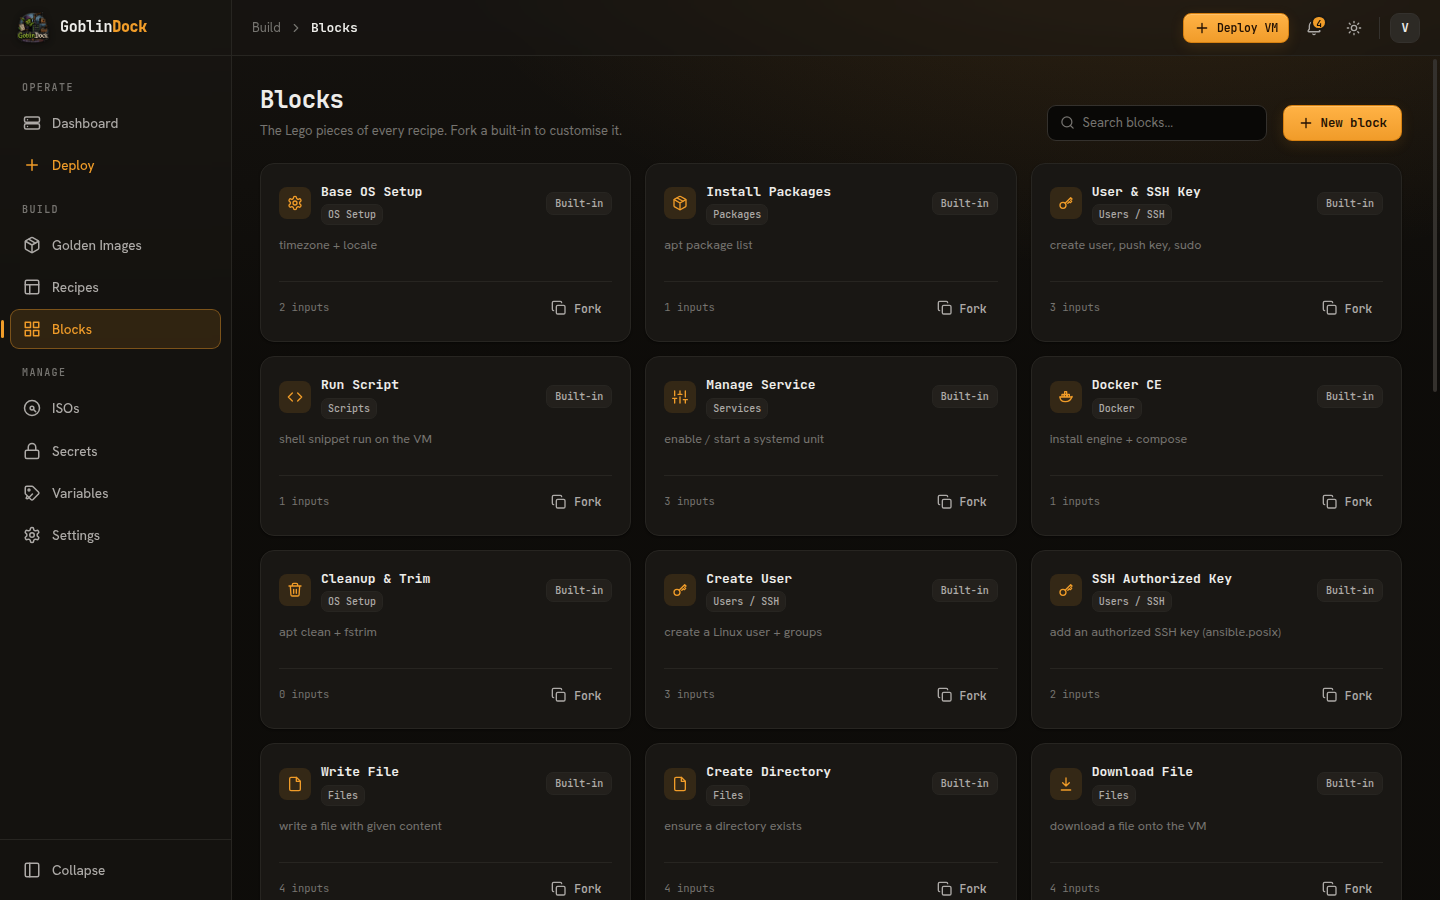
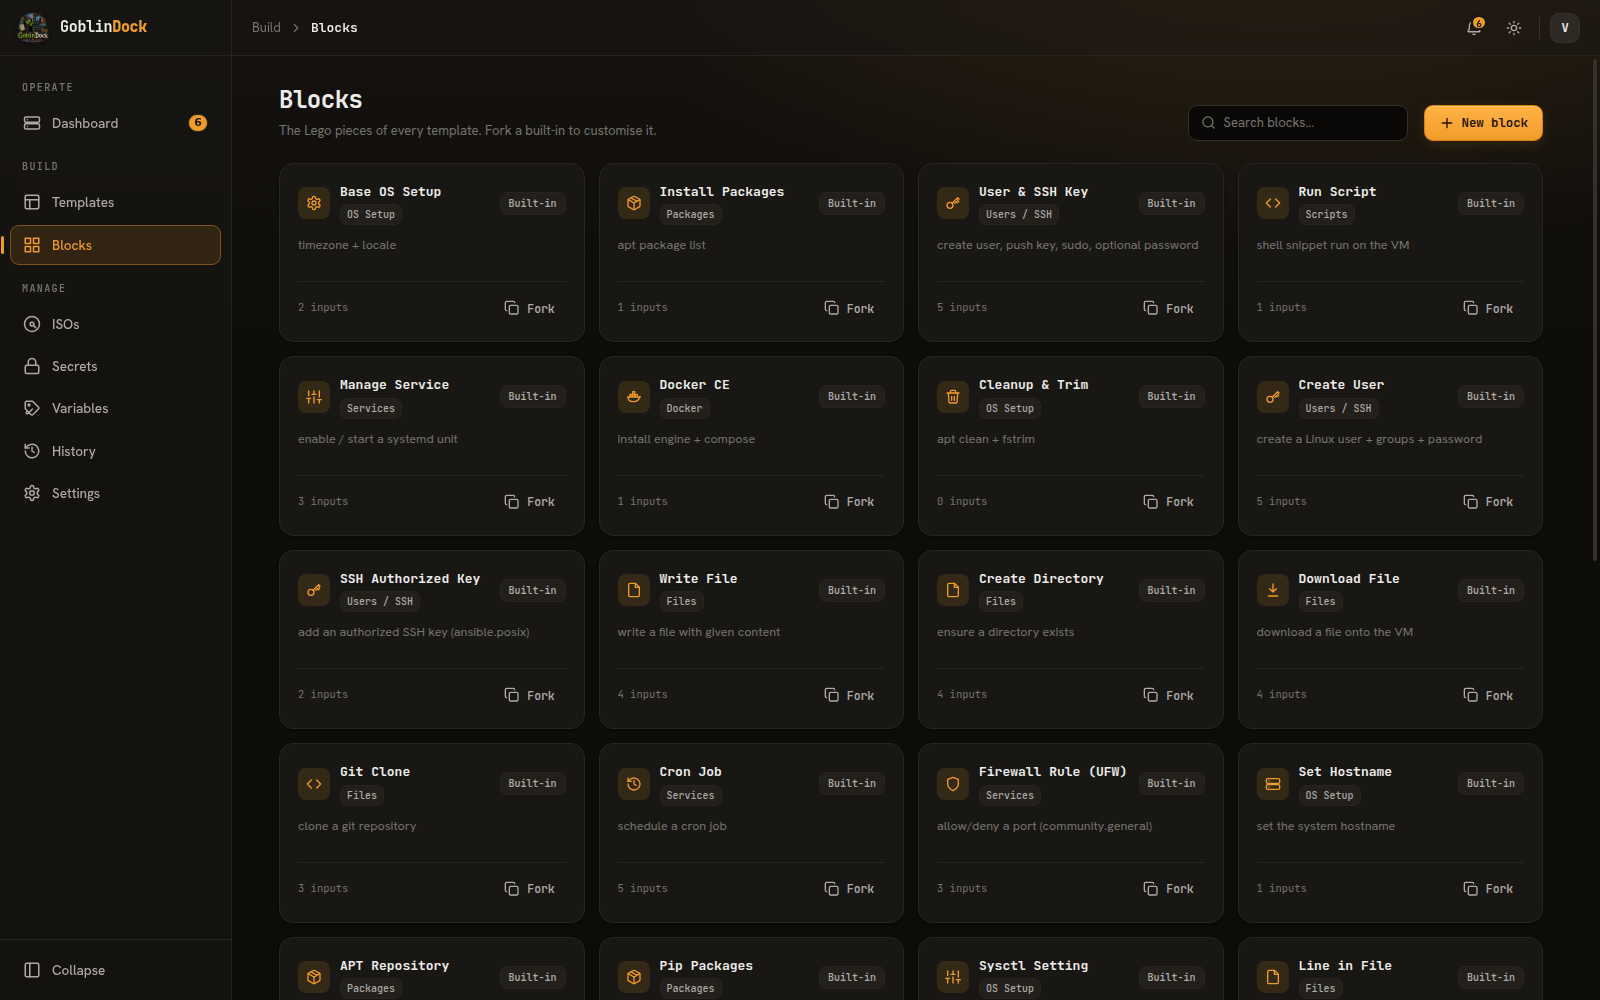
README: refresh screenshots from a live session and place them through the doc
All six shots retaken against a real deployment run: dashboard cards with
CPU/RAM sparklines, the block builder with the inspector open, the block
library, the deploy modal, a deploy job streaming live, and the VM detail
page with a snapshot. Image tags in the quick start now reference 2.1.x.

diff --git a/README.md b/README.md
@@ -25,7 +25,7 @@ all from a single container backed by one SQLite file.
 
 </div>
 
-![The block builder — compose a template from typed blocks](docs/screenshots/builder.png)
+![The dashboard — live VM cards with CPU/RAM sparklines, one VM stopped, all auto-refreshing](docs/screenshots/dashboard.png)
 
 ---
 
@@ -54,7 +54,7 @@ GoblinDock turns *"spin up a fully-configured VM"* into a few clear buttons:
 - **👥 Multi-user** — first-run admin setup, Admin / User roles, per-user VM isolation,
   per-target resource limits, and an audit log.
 
-![Block library — built-in + custom blocks, each tagged cloud-init or ansible](docs/screenshots/blocks.png)
+![The VM detail page — live metrics, guest-agent info, snapshots, and the deployment log](docs/screenshots/vm-detail.png)
 
 ---
 
@@ -81,7 +81,7 @@ open http://localhost:8080
 
 > The image is published at **`ghcr.io/vladoportos/goblindock`** — multi-arch
 > (amd64 · arm64). Tags: `latest` (newest release), `main` (rolling, from the default
-> branch), and semver (`2.0.0`, `2.0`). The compose files pull `:latest` by default.
+> branch), and semver (`2.1.2`, `2.1`). The compose files pull `:latest` by default.
 
 The first load shows **"Create the first admin account"**. With the dev override the
 Proxmox connection is auto-seeded from `PROXMOX_*` (`GOBLINDOCK_SEED_PROXMOX=true`); in
@@ -103,12 +103,21 @@ throttle see the real client address.
 
 The flow: **add a base image (or use the seeded ones) → build a template (blocks + location + size) → deploy.**
 
+![The deploy modal — pick a template, name the VM, answer its asked inputs, see live node capacity](docs/screenshots/deploy.png)
+
 ---
 
 ## How the customization actually runs
 
 This is the part people are curious about. When you stack several blocks, GoblinDock
 **doesn't run them one-by-one as separate executions** — it *compiles* them.
+
+![The block builder — palette, canvas with phase-tagged blocks, and the typed-input inspector](docs/screenshots/builder.png)
+
+There are 29 built-in blocks (plus your own forks and custom ones), each tagged with the
+phase it runs in:
+
+![Block library — built-in + custom blocks, each tagged cloud-init or ansible](docs/screenshots/blocks.png)
 
 ### Two phases
 
@@ -175,6 +184,8 @@ Docker, Claude Code, etc.). No pre-baked template image is needed. The first dep
 a given base image downloads it onto the node (cached per node afterwards — or pre-sync
 it from the ISOs page); a deploy typically takes a few minutes, and the job page streams
 every step live, download progress included.
+
+![A deploy in flight — phase bar, step checklist, and the ansible log streaming live](docs/screenshots/job.png)
 
 ### Engines & plumbing
 